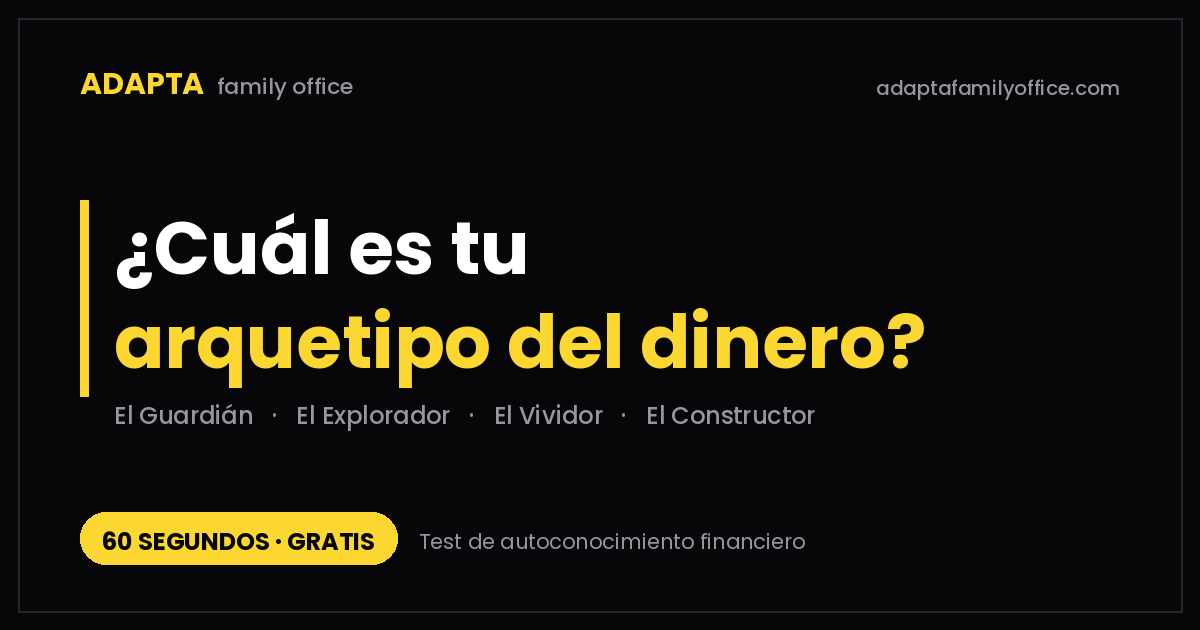
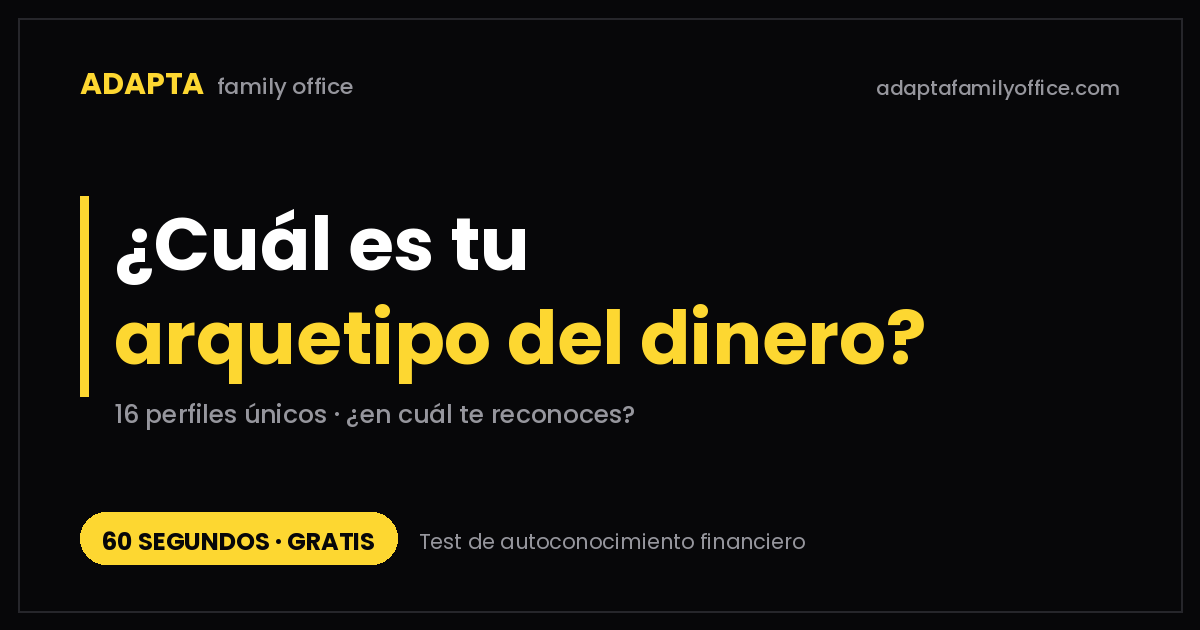
Test arquetipo: 16 perfiles (motor 4 ejes)

diff --git a/test-arquetipo.html b/test-arquetipo.html
@@ -9,14 +9,14 @@
 <meta property="og:description" content="Descúbrelo en 60 segundos. Gratis. Por Adapta Family Office.">
 <meta property="og:type" content="website">
 <meta property="og:url" content="https://diagnostico.adaptafamilyoffice.com/test-arquetipo.html">
-<meta property="og:image" content="https://diagnostico.adaptafamilyoffice.com/og-arquetipo.png?v=1">
+<meta property="og:image" content="https://diagnostico.adaptafamilyoffice.com/og-arquetipo.png?v=2">
 <meta property="og:image:width" content="1200">
 <meta property="og:image:height" content="630">
 <meta property="og:site_name" content="Adapta Family Office">
 <meta name="twitter:card" content="summary_large_image">
 <meta name="twitter:title" content="¿Cuál es tu arquetipo del dinero?">
 <meta name="twitter:description" content="Descúbrelo en 60 segundos. Gratis. Por Adapta Family Office.">
-<meta name="twitter:image" content="https://diagnostico.adaptafamilyoffice.com/og-arquetipo.png?v=1">
+<meta name="twitter:image" content="https://diagnostico.adaptafamilyoffice.com/og-arquetipo.png?v=2">
 <link rel="preconnect" href="https://fonts.googleapis.com">
 <link rel="preconnect" href="https://fonts.gstatic.com" crossorigin>
 <link href="https://fonts.googleapis.com/css2?family=Poppins:wght@300;400;500;600;700;800&display=swap" rel="stylesheet">
@@ -95,10 +95,10 @@ body{font-family:'Poppins',sans-serif;background:var(--negro);color:var(--blanco
   <section id="hero">
     <span class="eyebrow">Adapta Family Office</span>
     <h1>¿Cuál es tu <b>arquetipo del dinero</b>?</h1>
-    <p>Tu forma de relacionarte con el dinero dice más de ti que tu cuenta corriente. Descúbrela en tres preguntas.</p>
+    <p>Tu forma de relacionarte con el dinero dice más de ti que tu cuenta corriente. Descúbrela en 8 preguntas rápidas.</p>
     <div class="meta-line">
       <span><i class="dot"></i> 60 segundos</span>
-      <span><i class="dot"></i> 3 preguntas</span>
+      <span><i class="dot"></i> 8 preguntas</span>
       <span><i class="dot"></i> Sin registro</span>
     </div>
     <button class="btn" onclick="start()">Descubrir mi arquetipo →</button>
@@ -179,52 +179,52 @@ body{font-family:'Poppins',sans-serif;background:var(--negro);color:var(--blanco
 
 <script>
 const ARQ=[
- {q:"Te caen 50.000 € inesperados. ¿Qué es lo PRIMERO que harías, casi sin pensarlo?",o:[
-   {t:"Asegurar el colchón: ahorrarlo o quitar deuda",a:"SEG"},
-   {t:"Invertirlo para que crezca con el tiempo",a:"MUL"},
-   {t:"Mejorar mi vida ahora: casa, coche, viajes",a:"EST"},
-   {t:"Comprar tiempo y libertad: trabajar menos, decidir más",a:"LIB"}]},
- {q:"Para ti, el dinero significa sobre todo…",o:[
-   {t:"Seguridad y tranquilidad ante lo que pueda venir",a:"SEG"},
-   {t:"Libertad para decidir cómo vivo mi vida",a:"LIB"},
-   {t:"Poder disfrutar y darme buena vida",a:"EST"},
-   {t:"Una herramienta para construir y multiplicar",a:"MUL"}]},
- {q:"Cuando piensas en asumir riesgo (invertir, emprender, endeudarte para crecer)…",o:[
-   {t:"Me genera inquietud; prefiero lo seguro",a:"SEG"},
-   {t:"Lo veo como una palanca natural para crecer",a:"MUL"},
-   {t:"Lo asumo si mejora mi nivel de vida",a:"EST"},
-   {t:"Lo asumo si me compra autonomía y libertad",a:"LIB"}]}
+ {q:"Te ofrecen una inversión que puede doblar tu dinero… o perder la mitad.",o:[
+   {t:"Paso: prefiero no arriesgar lo que tengo",a:"C"},
+   {t:"Entro: sin riesgo no hay recompensa",a:"A"}]},
+ {q:"Tienes un dinero parado. Duermes mejor si…",o:[
+   {t:"está a salvo, aunque rente poco",a:"C"},
+   {t:"está invertido, aunque pueda bajar",a:"A"}]},
+ {q:"El dinero, para ti, es sobre todo para…",o:[
+   {t:"construir y asegurar el mañana",a:"F"},
+   {t:"disfrutar y vivir bien hoy",a:"D"}]},
+ {q:"Te llega un extra inesperado. Lo primero que te pide el cuerpo…",o:[
+   {t:"guardarlo o invertirlo",a:"F"},
+   {t:"darte un capricho o una experiencia",a:"D"}]},
+ {q:"Cuando tomas una decisión de dinero…",o:[
+   {t:"hago números, comparo, planifico",a:"E"},
+   {t:"voy con mi instinto y lo que siento",a:"I"}]},
+ {q:"Los presupuestos y las hojas de cálculo…",o:[
+   {t:"me dan control: los uso",a:"E"},
+   {t:"me agobian: prefiero fluir",a:"I"}]},
+ {q:"Si tuvieras dinero de sobra, lo que más valorarías sería…",o:[
+   {t:"tu libertad e independencia",a:"Y"},
+   {t:"la seguridad de los tuyos y dejar algo",a:"O"}]},
+ {q:"Cuando imaginas tu éxito con el dinero, piensas en…",o:[
+   {t:"tus metas y tu propia vida",a:"Y"},
+   {t:"cuidar a tu familia o dejar huella",a:"O"}]}
 ];
 const META={
- SEG:{n:"El Guardián",l:"El dinero es protección.",
-   d:"Para ti el dinero es, antes que nada, un escudo. Priorizas el colchón, te incomoda el riesgo y duermes mejor sabiendo que hay margen.",
-   luz:"Aportas estabilidad y red de seguridad a cualquier decisión.",
-   s:"Puedes confundir prudencia con parálisis y perder oportunidades por exceso de cautela.",
-   pagoTit:"El punto ciego del Guardián te cuesta dinero",
-   pago:"Duermes tranquilo — pero la prudencia mal calibrada también se paga: cada año de más en \"lo seguro\" es rentabilidad que no vuelve. Tu diagnóstico te dice cuánto te cuesta y dónde aflojar sin perder el sueño."},
- LIB:{n:"El Explorador",l:"El dinero es libertad.",
-   d:"El dinero, para ti, compra lo único que no se recupera: tiempo y opciones. Lo quieres para decidir cómo vives, no para acumular.",
-   luz:"Mantienes el foco en lo que de verdad importa: vivir a tu manera.",
-   s:"Puedes despreciar la planificación y quedarte sin la base que sostiene la libertad.",
-   pagoTit:"Tu libertad necesita una base que aún no ves",
-   pago:"Quieres libertad — pero sin cimientos es frágil. Tu diagnóstico te da tu cifra exacta de libertad y el plan de 100 días para que sea de verdad, no un deseo."},
- EST:{n:"El Vividor",l:"El dinero es para vivir bien.",
-   d:"Crees que el dinero existe para disfrutarse, y vives el presente sin culpa. Sabes gozar lo ganado como pocos.",
-   luz:"Le das sentido y disfrute al dinero hoy, no sólo en una hoja de cálculo.",
-   s:"El gasto de estilo de vida puede asfixiar el ahorro sin que lo notes.",
-   pagoTit:"El tren de vida del Vividor crece sin avisar",
-   pago:"Disfrutas como pocos — y ahí está la trampa: el nivel de vida sube sin que lo notes y se come tu futuro. Tu diagnóstico te enseña cuánto, y cómo gozar hoy sin hipotecar el mañana."},
- MUL:{n:"El Constructor",l:"El dinero es una herramienta.",
-   d:"Ves el dinero como materia prima para construir y multiplicar. Te sientes cómodo con el riesgo calculado y piensas en sistemas, no en sueldos.",
-   luz:"Conviertes recursos en más recursos: piensas a largo plazo.",
-   s:"Puedes asumir más riesgo del que tu entorno tolera y generar tensión.",
-   pagoTit:"El Constructor asume más riesgo del que cree",
-   pago:"Piensas en multiplicar — pero el punto ciego es la exposición: más riesgo del que tu vida aguanta si algo se tuerce. Tu diagnóstico estresa tu plan y te enseña dónde estás al descubierto."}
+ CFEY:{n:"El Arquitecto",l:"Construyes tu libertad con plano y paciencia.",d:"Prudente y metódico, levantas tu independencia ladrillo a ladrillo. No improvisas: planificas.",luz:"Disciplina y visión a largo plazo: pocos construyen tan sólido.",s:"Tanto plan puede volverse rigidez; a veces la vida pide improvisar.",pagoTit:"El Arquitecto tiene una grieta invisible",pago:"Tu plan es sólido, pero ¿está estresado contra lo imprevisto? Tu diagnóstico te enseña dónde aguanta tu estructura y dónde cruje."},
+ CFEO:{n:"El Custodio",l:"Proteges y haces crecer lo de los tuyos.",d:"Cauto, estratega y orientado a la familia: gestionas el patrimonio como quien cuida un legado.",luz:"Responsabilidad y mirada de generaciones.",s:"Puedes cargar tú solo un peso que deberías compartir o delegar.",pagoTit:"El Custodio protege… ¿pero está blindado de verdad?",pago:"Cuidas a los tuyos, pero la protección sin estructura legal y fiscal tiene agujeros. Tu diagnóstico te enseña dónde estás expuesto."},
+ CFIY:{n:"El Previsor",l:"Ahorras por instinto para no depender de nadie.",d:"Guardas sin pensarlo: mueve un resorte interno. Tu seguridad es tu libertad.",luz:"Tu colchón es tu superpoder: rara vez te pillan a contrapié.",s:"Ahorrar mucho sin invertir es perder dinero en silencio.",pagoTit:"El Previsor ahorra mucho… y pierde sin saberlo",pago:"Tu instinto te protege, pero el dinero quieto se lo come la inflación. Tu diagnóstico te enseña cuánto pierdes y cómo ponerlo a trabajar sin perder el sueño."},
+ CFIO:{n:"El Proveedor",l:"Tu instinto es asegurar el futuro de tu gente.",d:"Cauto y entregado: ganas y guardas pensando en los tuyos, casi sin planteártelo.",luz:"Generosidad y sentido de la responsabilidad.",s:"Olvidarte de ti mismo en la ecuación también es un riesgo.",pagoTit:"El Proveedor cuida de todos… ¿y de sí mismo?",pago:"Aseguras a los tuyos, pero ¿y tu propia libertad? Tu diagnóstico te enseña cómo proteger a tu gente sin quedarte tú sin red."},
+ CDEY:{n:"El Equilibrista",l:"Disfrutas hoy sin hipotecar el mañana.",d:"Sabes gozar la vida con cabeza: cada placer pasa por un cálculo silencioso.",luz:"Raro equilibrio entre presente y futuro.",s:"Tanto control puede quitarle espontaneidad a la vida.",pagoTit:"El Equilibrista afina fino… ¿pero acierta?",pago:"Tu balance presente-futuro es admirable, pero ¿está bien calibrado o lo intuyes? Tu diagnóstico te pone los números exactos."},
+ CDEO:{n:"El Anfitrión",l:"Planificas para que los tuyos vivan bien.",d:"Disfrutas compartiendo, y lo haces con método: la buena vida, pero sin descontrol.",luz:"Generas experiencias y unión sin romper la hucha.",s:"Financiar el bienestar de todos puede erosionar el tuyo.",pagoTit:"El Anfitrión invita… ¿hasta cuándo aguanta la cuenta?",pago:"Cuidas que los tuyos disfruten, pero ¿tu estructura lo sostiene a largo plazo? Tu diagnóstico te enseña tu margen real."},
+ CDIY:{n:"El Sibarita",l:"Buena vida, pero con red debajo.",d:"Te das gustos por instinto, aunque siempre dejas un colchón. Vives bien sin vivir al límite.",luz:"Sabes disfrutar sin caer en el descontrol total.",s:"Los pequeños gustos por impulso suman más de lo que crees.",pagoTit:"El Sibarita disfruta… y las fugas se acumulan",pago:"Tu colchón te salva, pero los caprichos por instinto tienen un coste oculto. Tu diagnóstico te enseña cuánto y dónde."},
+ CDIO:{n:"El Generoso",l:"Gastas con el corazón en quien quieres.",d:"Tu dinero fluye hacia los tuyos por puro instinto, aunque cuidas de no pasarte de la raya.",luz:"Calidez y vínculo: el dinero, para ti, es amor en acción.",s:"Dar sin medida, aun con cautela, puede dejarte descubierto.",pagoTit:"El Generoso da de corazón… ¿y a su costa?",pago:"Tu generosidad es tu sello, pero ¿tienes claro tu límite? Tu diagnóstico te enseña cuánto puedes dar sin comprometerte."},
+ AFEY:{n:"El Estratega",l:"Arriesgas con cabeza para multiplicar tu libertad.",d:"Audaz pero calculador: ves el riesgo como una palanca y lo manejas con plan.",luz:"Combinas ambición y método: construyes rápido y firme.",s:"La confianza en tu plan puede cegarte ante lo que no controlas.",pagoTit:"El Estratega calcula bien… ¿y lo que no ve?",pago:"Tu plan es ambicioso y sólido, pero ¿dónde está tu punto ciego? Tu diagnóstico estresa tu estrategia y te enseña tu talón de Aquiles."},
+ AFEO:{n:"El Visionario",l:"Construyes en grande para dejar huella.",d:"Audaz, metódico y con mirada de legado: piensas en imperios, no en sueldos.",luz:"Ambición con propósito: creas algo más grande que tú.",s:"Apostar el legado a una sola visión es jugártelo todo a una carta.",pagoTit:"El Visionario sueña grande… ¿y protege la base?",pago:"Construyes para los que vienen, pero ¿tu base aguanta un golpe? Tu diagnóstico te enseña dónde tu visión está expuesta."},
+ AFIY:{n:"El Emprendedor",l:"Te lanzas por instinto a construir tu independencia.",d:"Audaz e intuitivo: ves una oportunidad y vas; confías en tu olfato más que en la hoja de cálculo.",luz:"Coraje y velocidad: empiezas donde otros dudan.",s:"El instinto sin números detrás puede salir caro.",pagoTit:"El Emprendedor tiene olfato… ¿y los números?",pago:"Tu instinto te lleva lejos, pero las cifras frías evitan sustos. Tu diagnóstico le pone método a tu olfato."},
+ AFIO:{n:"El Pionero",l:"Apuestas fuerte para abrir camino a los tuyos.",d:"Audaz e intuitivo: te arriesgas para construir algo que dure y beneficie a los que quieres.",luz:"Valentía con propósito: abres puertas para otros.",s:"Arriesgar el futuro común sin red afecta a más gente que a ti.",pagoTit:"El Pionero abre camino… ¿con red o sin ella?",pago:"Tu valentía construye para los tuyos, pero el riesgo compartido necesita colchón. Tu diagnóstico te enseña si lo tienes."},
+ ADEY:{n:"El Apostador",l:"Calculas tus apuestas para vivir a lo grande.",d:"Audaz y disfrutón, pero con método: te das la gran vida moviendo fichas que has calculado.",luz:"Conviertes riesgo en disfrute sin perder el control… casi siempre.",s:"El placer sube las apuestas sin avisar.",pagoTit:"El Apostador controla la mesa… ¿hasta cuándo?",pago:"Calculas tus apuestas, pero el tren de vida infla el riesgo en silencio. Tu diagnóstico te enseña tu exposición real."},
+ ADEO:{n:"El Mecenas",l:"Inviertes en experiencias y en los demás, con visión.",d:"Audaz y generoso, pero estratega: pones tu dinero al servicio del disfrute y de los tuyos con criterio.",luz:"Conviertes el dinero en vida compartida y memorable.",s:"Financiar a lo grande para otros puede vaciar tu propio depósito.",pagoTit:"El Mecenas reparte… ¿y su propia base?",pago:"Inviertes en los demás con visión, pero ¿y tu seguridad? Tu diagnóstico te enseña cuánto puedes dar sin descubrirte."},
+ ADIY:{n:"El Espíritu Libre",l:"Vives el momento y apuestas por instinto, sin ataduras.",d:"Audaz, disfrutón e intuitivo: el dinero es para vivir intensamente y ahora, sin mapas.",luz:"Libertad pura: exprimes la vida como pocos.",s:"Sin base ni plan, la libertad de hoy puede ser la jaula de mañana.",pagoTit:"El Espíritu Libre vuela… ¿y si falla el motor?",pago:"Vives intenso, pero la libertad sin base es frágil. Tu diagnóstico te enseña cuánto necesitas para que tu libertad dure."},
+ ADIO:{n:"El Bon Vivant",l:"Conviertes el dinero en momentos con tu gente.",d:"Audaz, disfrutón y entregado: el dinero es para celebrar la vida con los tuyos, sin contar demasiado.",luz:"Generosidad y alegría: contigo el dinero se vuelve recuerdos.",s:"La fiesta sin freno ni plan se paga, y a veces la pagan los tuyos.",pagoTit:"El Bon Vivant celebra… ¿y la resaca financiera?",pago:"Conviertes el dinero en momentos, pero sin freno hay resaca. Tu diagnóstico te enseña cómo seguir celebrando sin hipotecar el mañana."}
 };
-const ORDER=["SEG","LIB","EST","MUL"];
-let i=0, votes={SEG:0,LIB:0,EST:0,MUL:0}, current="";
+let i=0, counts={C:0,A:0,F:0,D:0,E:0,I:0,Y:0,O:0}, current="";
 const $=id=>document.getElementById(id);
-function start(){$("hero").style.display="none";$("quiz").style.display="block";i=0;votes={SEG:0,LIB:0,EST:0,MUL:0};render();window.scrollTo(0,0);}
+function start(){$("hero").style.display="none";$("quiz").style.display="block";i=0;counts={C:0,A:0,F:0,D:0,E:0,I:0,Y:0,O:0};render();window.scrollTo(0,0);}
 function render(){
   const Q=ARQ[i];
   $("bar").style.width=((i)/ARQ.length*100)+"%";
@@ -233,10 +233,11 @@ function render(){
   const c=$("opts");c.innerHTML="";
   Q.o.forEach(op=>{const b=document.createElement("button");b.className="opt";b.textContent=op.t;b.onclick=()=>choose(op.a);c.appendChild(b);});
 }
-function choose(a){votes[a]++;i++;if(i<ARQ.length){render();window.scrollTo(0,0);}else finish();}
+function choose(a){counts[a]++;i++;if(i<ARQ.length){render();window.scrollTo(0,0);}else finish();}
 function finish(){
-  let best=ORDER[0];ORDER.forEach(k=>{if(votes[k]>votes[best])best=k;});
-  current=best;const m=META[best];
+  const _ax=[["C","A"],["F","D"],["E","I"],["Y","O"]];
+  current=_ax.map(p=>counts[p[0]]>=counts[p[1]]?p[0]:p[1]).join("");
+  const m=META[current]||Object.values(META)[0];
   $("rName").textContent=m.n;$("rLema").textContent="«"+m.l+"»";$("rDesc").textContent=m.d;
   $("rLuz").textContent=m.luz;$("rSombra").textContent=m.s;
   if($("ctaH")) $("ctaH").textContent=m.pagoTit;